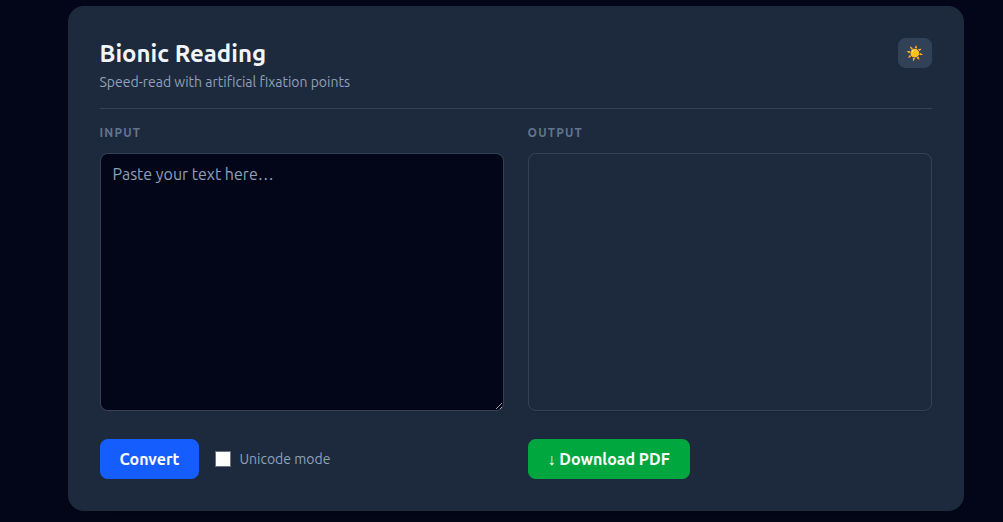
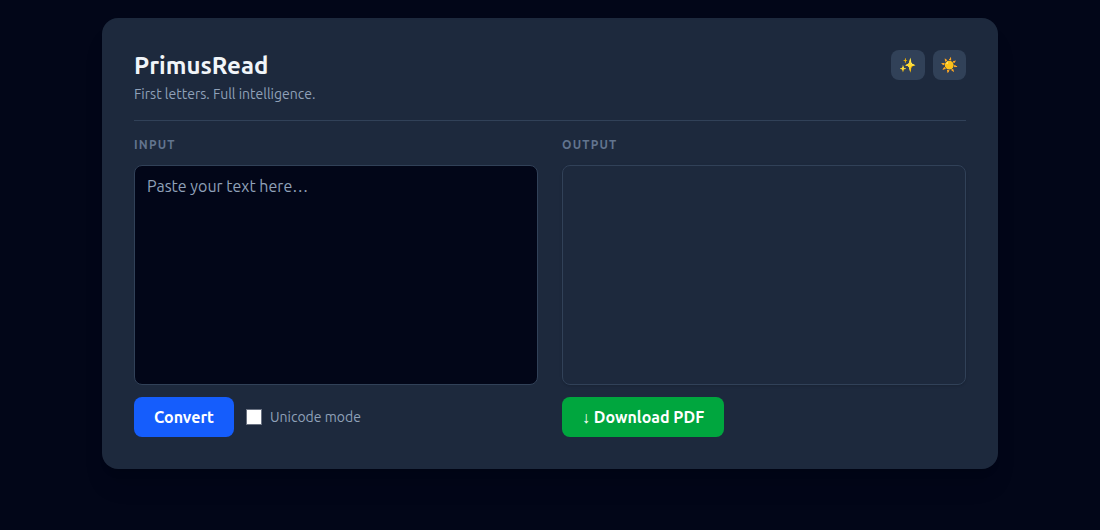
fix: update router basename and refresh light/dark screenshots
- Fix react-router basename from /vite-react-tailwind-bionic-reading/ → /primusread/
  so the app renders correctly after the base-path rebrand
- Retake bionic_reader_light.png and bionic_reader_dark.png showing updated
  PrimusRead UI with ✨ advanced toggle, ☀ theme toggle, and current buttons

Changed region(s): [[0.0618, 0.0, 0.9581, 0.9808]]

diff --git a/src/main.tsx b/src/main.tsx
@@ -6,7 +6,7 @@ import './index.css';
 
 const router = createBrowserRouter(
   [{ path: '/', element: <App /> }],
-  { basename: '/vite-react-tailwind-bionic-reading/' }
+  { basename: '/primusread/' }
 );
 
 const container = document.getElementById('root');
